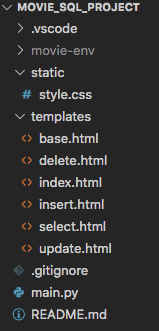
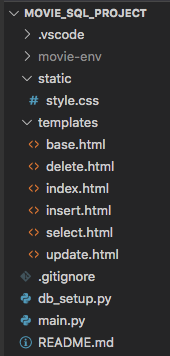
Finished form instructions in the database project.rst page.

Changed region(s): [[0.0252, 0.0, 0.8805, 0.997], [0.1258, 0.2719, 0.2264, 0.3021]]

diff --git a/src/chapters/databases/project.rst b/src/chapters/databases/project.rst
@@ -3,9 +3,9 @@ Project: Movie SQLs
 
 In this chapter, we assigned different string values to a ``sql_query``
 variable and used that to execute SQL commands. For the short practice
-examples, this worked well. However, we do need a better way to create and run
-our queries. After all, we don't want to rewrite our code every time we need to
-interact with the database!
+examples, this worked well. However, we need a better way to create and run
+our queries, since we don't want to rewrite our code every time we interact
+with the database!
 
 In this project, you will use input from a web form to build ``sql_query``
 strings. These queries will work on two tables stored in a database: ``movies``
@@ -20,7 +20,8 @@ Project Setup
 
 #. Open your ``local_practice`` directory in Visual Studio Code. Clone a copy
    of the starter code from this `GitHub repository <https://github.com/LaunchCodeEducation/LCHS_movie_sql_project>`__.
-#. Use the *File* menu to open ``LCHS_movie_sql_project``.
+#. Use the *File* menu to open the ``LCHS_movie_sql_project`` folder you just
+   downloaded.
 #. Follow the usual procedure to create a new virtual environment, activate it,
    and install Flask. If you need a reminder for how to do this, the ``README``
    file contains a summary of the process.
@@ -30,39 +31,57 @@ Project Setup
    instead of ``movie-env``.
 
    .. figure:: figures/db-project-tree-start.png
-      :alt: File tree showing 4 folders, 6 templates, main.py, style.css, .gitignore, and a README file.
+      :alt: File tree showing 4 folders, 6 templates, main.py, db_setup.py, style.css, .gitignore, and a README file.
 
-      For this project, you will work with ``main.py``, six template files, and ``style.css``.
+      For this project, you will do most of your work in the ``main.py`` file.
 
-#. Run ``main.py`` to check that everything is OK so far. The application opens
-   to a home page:
+Create the Database
+^^^^^^^^^^^^^^^^^^^
 
-   .. figure:: figures/db-project-home.png
-      :alt: The index.html page, showing a form to select the type of SQL query.
-      :width: 70%
+The file ``db_setup.py`` is a separate program. Its only job is to create the
+database, add the ``movies`` and ``directors`` tables, and insert several rows
+into each one.
 
-      The form lets users select the type of SQL query and the table to access.
+#. Run ``db_setup.py``. A database file called ``project.db`` should appear in
+   the file tree.
 
-#. Use ``git status/git add ./git commit -m`` to begin a version control
-   record. If you have your own GitHub account, take a moment to push the
-   repository up to the site.
+   .. figure:: figures/project-db-in-tree.png
+      :alt: The project.db file name appears in the file tree.
 
-The application runs, but it doesn't generate SQL queries yet. Let's take a
-moment to explore what works so far.
+      The database name appears gray because its name appears in the ``.gitignore`` file.
+#. Right-click on ``project.db`` and select *Open Database*.
+#. Use the tools in the :ref:`SQLite Explorer <sqlite-explorer>` tab to confirm
+   that the tables and data were successfully created.
+
+.. admonition:: Note
+
+   At any time during the project, you can rerun ``db_setup.py`` to reset the
+   database to its starting configuration.
+
+Use ``git status/git add ./git commit -m`` to begin a version control record.
+If you have your own GitHub account, take a moment to push the repository up to
+the site.
 
 The Home Page (``index.html``)
-^^^^^^^^^^^^^^^^^^^^^^^^^^^^^^
+------------------------------
+
+Run ``main.py`` and open the application in a browser. You should see a home
+page:
+
+.. figure:: figures/db-project-home.png
+   :alt: The index.html page, showing a form to select the type of SQL query.
+   :width: 60%
+
+   The form lets users select the type of SQL query and a table from the database.
 
 .. index:: ! gateway page
 
-The main page for the application gives users four options to choose from, plus
-a dropdown menu to select a table. ``index.html`` serves as a **gateway page**.
-Its job is to direct users to different pages based on the selected CRUD
-operation.
+The home page gives users four options to choose from, plus a dropdown menu to
+select a table. ``index.html`` serves as a **gateway page**. Its job is to
+direct users to different pages based on the CRUD operation they pick.
 
-Select one of the options, pick a table, and then click *Submit*. You will be
-redirected to a different page and web form. Do this for all four of the
-options.
+Try it! Select an option and table, then click *Submit*. Repeat this for the
+other choices.
 
 .. admonition:: Tip
 
@@ -72,11 +91,11 @@ options.
    The ``index.html`` template also includes comments describing how the page
    is put together.
 
-Each form is complete. However, none of them produce correct SQL strings yet,
-because the functions controlling the pages need to be finished.
+Each form is complete, but none of them produce correct SQL strings yet. The
+functions controlling the pages need to be finished.
 
 Your job is to fill in the missing pieces, starting with the easiest function.
-Be sure to follow the recommended order! Each task asks you to do a little more
+Be sure to follow the recommended order! Each part asks you to do a little more
 than the one that came before.
 
 The DELETE Form
@@ -96,9 +115,8 @@ happen, because the ``delete_query()`` function in ``main.py`` is almost empty.
 You need to add code to the function that will:
 
 - Request data from the form.
-- Build a correctly formatted ``sql_query`` string based on that input.
-- Render the page again, but with the ``sql_query`` string displayed
-  underneath the form.
+- Build a ``sql_query`` string based on that input.
+- Render the page again, but display the ``sql_query`` string below the form.
 
   .. figure:: figures/delete-form-function.png
      :alt: The DELETE query form, with an input box where users can enter a WHERE condition.
@@ -130,7 +148,9 @@ You need to add code to the function that will:
             table = session['table']
          else:
             pass
-
+   
+   On line 46, ``['condition']`` matches to the name attribute given to the
+   input element in ``delete.html``.
 #. Use the ``table`` and ``condition`` variables to build the string for the
    SQL query. Also, assign the empty string to ``sql_query`` in the ``else``
    clause.
@@ -166,13 +186,13 @@ You need to add code to the function that will:
 #. Save your changes. Run ``main.py`` and submit the form several times to
    check your code. Fix any bugs that occur.
 
-Congratulations! The ``delete_query()`` function are now working. Be sure to
-save, commit, and push your work.
+Congratulations! The ``delete_query()`` function now builds the required
+string. Be sure to save, commit, and push your work.
 
 .. admonition:: Note
 
    Right now, users can type whatever they want in the input box. Don't worry
-   about this right now.
+   about validating the entry yet.
 
 The UPDATE Form
 ---------------
@@ -186,7 +206,7 @@ page loads, notice that the form contains two input fields.
 
    With the ``UPDATE`` form, users submit text for both ``SET`` and ``WHERE``.
 
-You want this form to behave in a similar way to ``DELETE``. Users will submit
+This page should behave in a similar way to ``delete.html``. Users will submit
 TWO text fields, and the ``update_query()`` function will send back a completed
 query string.
 
@@ -213,8 +233,9 @@ query string.
          
          return render_template("update.html", tab_title = "UPDATE query", home = False)
 #. Using the ``delete_query()`` function as a model, replace the ``pass``
-   keyword. Collect data from the form and session, and assign those values to
-   the variables ``table``, ``new_value``, and ``condition``.
+   keyword. Collect the SET and WHERE entries from the form and the table name
+   from the session. Assign the values to the variables ``new_value``,
+   ``condition``, and ``table``.
 #. Use the ``table`` and ``new_value`` variables to build the first part of the
    ``sql_query`` string:
 
@@ -222,8 +243,8 @@ query string.
 
       sql_query = f"UPDATE {table} SET {new_value}"
 
-#. For an ``UPDATE`` query, the ``WHERE`` clause is optional, so a user might
-   not submit one. Add a conditional to deal with this case:
+#. For an ``UPDATE`` query, the ``WHERE`` clause is optional. A user might not
+   always submit one. Add a conditional to deal with this possibility:
 
    .. sourcecode:: Python
 
@@ -236,26 +257,25 @@ query string.
 
 .. figure:: figures/update-form-working.png
    :alt: A properly formatted SQL query string displayed below the UPDATE form.
-   :width: 80%
+   :width: 70%
 
    The ``update_query()`` function combines several pieces of data to complete a SQL query string.
 
-The INSERT Form
----------------
+The INSERT and SELECT Forms
+---------------------------
 
-You've done this twice now. Rinse and repeat to complete the ``insert_query()``
-function.
+Follow the same process as above to finish the ``insert_query()`` and
+``select_query()`` functions.
 
-The SELECT Form
----------------
+#. Make sure to place parentheses ``()`` around the column names and values
+   in the ``INSERT`` query.
+#. The ``WHERE`` clause is optional in ``SELECT``. Your ``select_query()``
+   function needs to deal with this.
 
-Lucky you! The ``select_query()`` function already filled in. Take a moment to
-examine how it is put together.
+.. figure:: figures/insert-select-forms.png
+   :alt: Properly formatted SQL strings displayed below the INSERT and SELECT forms.
 
-Create the Database
--------------------
-
-Lorem ipsum...
+   The ``insert_query()`` and ``select_query()`` functions also return SQL strings.
 
 Code the ``execute_query`` Function
 -----------------------------------
@@ -266,6 +286,8 @@ Bonus
 -----
 
 Add CSS styling to make the form(s) look nice.
+
+Case insensitivity for column names...
 
 Old Notes
 ---------

diff --git a/src/chapters/databases/db-practice.rst b/src/chapters/databases/db-practice.rst
@@ -50,6 +50,8 @@ Code along with this video as we add new rows to the ``students`` table.
    cursor.execute(sql_query, (last_name, first_name, grad_year))
    database.commit()
 
+.. _sqlite-explorer:
+
 Viewing a Table in VS Code
 ^^^^^^^^^^^^^^^^^^^^^^^^^^
 
